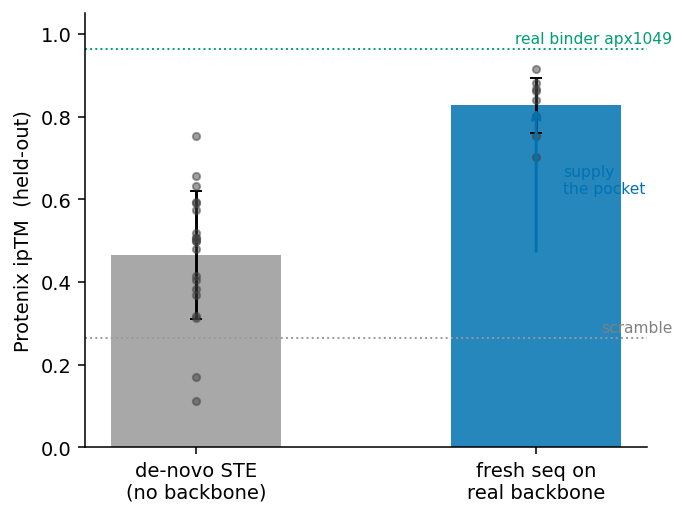
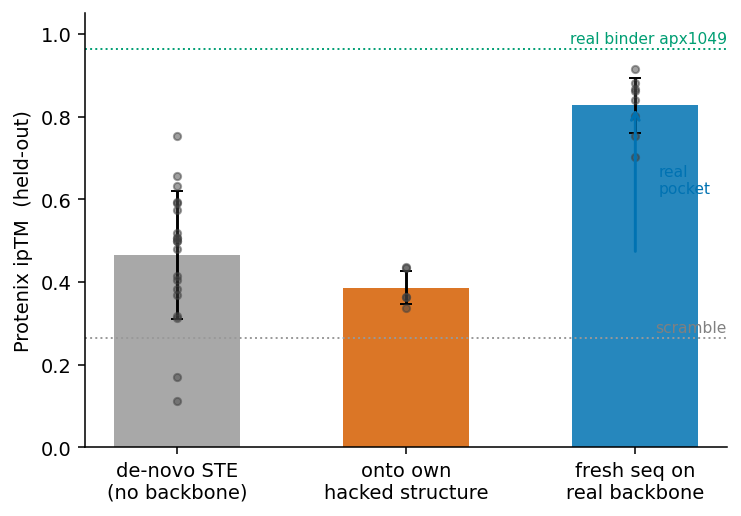
Repo audit: reference all 9 figures in README, DSTE-sweep figure, projector negative in rescue figure

diff --git a/scripts/rescue_figure.py b/scripts/rescue_figure.py
@@ -1,10 +1,11 @@
-"""The bottleneck is the backbone: supply a real pocket and the sequence layer recovers binders.
+"""Structure quality is the bottleneck: what you fit the sequence to decides everything.
 
-De-novo gradient design (no backbone) plateaus at held-out ipTM ~0.45. Freezing the real apx1049
-crystal backbone and designing a fresh, random-init sequence to fit it (LigandMPNN NLL, then an
-independent Protenix refold) jumps to 0.83, near the real binder (0.96) and far above scramble
-(0.27). Same sequence machinery; the only added ingredient is a real pocket backbone. Data:
-budget_scored.json (de-novo ste@25, n=20), rescue_scored.json (n=8).
+De-novo gradient design (no backbone) plateaus at held-out ipTM ~0.45. Fitting a sequence to a
+design's own reward-hacked structure (the projector) makes it worse (0.39). Fitting a fresh
+random-init sequence to the real apx1049 crystal backbone jumps to 0.83, near the real binder
+(0.96). Same sequence machinery throughout; only the target structure changes. Data:
+budget_scored.json (de-novo ste@25, n=20), apix_projector_scored.json (projector, n=5),
+rescue_scored.json (n=8).
 """
 
 import json
@@ -17,7 +18,7 @@ import matplotlib.pyplot as plt
 import numpy as np
 
 DATA = Path(__file__).resolve().parent / "data"
-DENOVO, RESCUE, REAL, SCRAM = "#999999", "#0072B2", "#009E73", "#CCCCCC"
+DENOVO, PROJ, RESCUE, REAL = "#999999", "#D55E00", "#0072B2", "#009E73"
 
 
 def vals(file, method, budget=None):
@@ -28,28 +29,29 @@ def vals(file, method, budget=None):
 
 def main():
     denovo = vals("budget_scored.json", "ste", 25)
+    proj = vals("apix_projector_scored.json", "ste_proj")
     rescue = vals("rescue_scored.json", "rescue_realbb")
     resc = json.loads((DATA / "rescue_scored.json").read_text())
     real = next(r["protenix_iptm"] for r in resc if r["method"] == "anchor_real")
     scram = next(r["protenix_iptm"] for r in resc if r["method"] == "anchor_scramble")
 
-    cats = ["de-novo STE\n(no backbone)", "fresh seq on\nreal backbone"]
-    data = [denovo, rescue]
-    colors = [DENOVO, RESCUE]
+    cats = ["de-novo STE\n(no backbone)", "onto own\nhacked structure", "fresh seq on\nreal backbone"]
+    data = [denovo, proj, rescue]
+    colors = [DENOVO, PROJ, RESCUE]
     x = np.arange(len(cats))
 
-    fig, ax = plt.subplots(figsize=(5.0, 3.8))
-    ax.bar(x, [np.mean(v) for v in data], yerr=[np.std(v) for v in data], width=0.5,
+    fig, ax = plt.subplots(figsize=(5.4, 3.8))
+    ax.bar(x, [np.mean(v) for v in data], yerr=[np.std(v) for v in data], width=0.55,
            color=colors, alpha=0.85, capsize=3)
     for i, v in enumerate(data):
         ax.scatter([x[i]] * len(v), v, color="0.25", s=14, alpha=0.5, zorder=3)
     ax.axhline(real, ls=":", lw=1, color=REAL)
-    ax.text(1.4, real + 0.005, "real binder apx1049", ha="right", va="bottom", fontsize=8, color=REAL)
+    ax.text(2.4, real + 0.005, "real binder apx1049", ha="right", va="bottom", fontsize=8, color=REAL)
     ax.axhline(scram, ls=":", lw=1, color="0.6")
-    ax.text(1.4, scram + 0.005, "scramble", ha="right", va="bottom", fontsize=8, color="0.5")
-    ax.annotate("", xy=(1, np.mean(rescue)), xytext=(1, np.mean(denovo)),
+    ax.text(2.4, scram + 0.005, "scramble", ha="right", va="bottom", fontsize=8, color="0.5")
+    ax.annotate("", xy=(2, np.mean(rescue)), xytext=(2, np.mean(denovo)),
                 arrowprops={"arrowstyle": "->", "color": RESCUE, "lw": 1.5})
-    ax.text(1.08, (np.mean(rescue) + np.mean(denovo)) / 2, "supply\nthe pocket", fontsize=8,
+    ax.text(2.1, (np.mean(rescue) + np.mean(denovo)) / 2, "real\npocket", fontsize=8,
             color=RESCUE, va="center")
 
     ax.set_xticks(x)

diff --git a/scripts/dste_sweep_figure.py b/scripts/dste_sweep_figure.py
@@ -1,0 +1,63 @@
+"""The decoupled straight-through estimator does not move the ceiling at any temperature.
+
+Held-out Protenix ipTM of STE designs on apixaban with the decoupled-STE backward temperature swept
+0.25/0.5/0.75/2.0 (arXiv 2410.13331, n=5 each). Flat at 0.36-0.42 throughout, far below the real
+binder (0.97): the plateau is not a gradient-estimator artifact. Data: lever_dste_scored.json,
+dste_{0.25,0.75,2.0}_scored.json, apix_anchors_scored.json.
+"""
+
+import json
+import statistics as st
+from pathlib import Path
+
+import matplotlib
+
+matplotlib.use("Agg")
+import matplotlib.pyplot as plt
+import numpy as np
+
+DATA = Path(__file__).resolve().parent / "data"
+BAR = "#0072B2"
+
+TEMPS = [("0.25", "dste_0.25_scored.json", "ste_dste0.25"),
+         ("0.5", "lever_dste_scored.json", "ste_dste0.5"),
+         ("0.75", "dste_0.75_scored.json", "ste_dste0.75"),
+         ("2.0", "dste_2.0_scored.json", "ste_dste2")]
+
+
+def vals(file, method):
+    d = json.loads((DATA / file).read_text())
+    return [r["protenix_iptm"] for r in d if r["method"] == method and r.get("protenix_iptm") is not None]
+
+
+def main():
+    anch = json.loads((DATA / "apix_anchors_scored.json").read_text())
+    real = next(r["protenix_iptm"] for r in anch if r["method"] == "anchor_real")
+    base = st.mean(vals("budget_scored.json", "ste"))   # plain STE, includes budget 25
+
+    labels = [t[0] for t in TEMPS]
+    means = [st.mean(vals(f, m)) for _, f, m in TEMPS]
+    sds = [st.pstdev(vals(f, m)) for _, f, m in TEMPS]
+    x = np.arange(len(labels))
+
+    fig, ax = plt.subplots(figsize=(5.0, 3.4))
+    ax.bar(x, means, yerr=sds, width=0.6, color=BAR, alpha=0.85, capsize=3)
+    ax.axhline(real, ls=":", lw=1, color="#009E73")
+    ax.text(len(labels) - 0.5, real + 0.01, "real binder", ha="right", va="bottom", fontsize=8, color="#009E73")
+    ax.axhline(base, ls="--", lw=1, color="0.5")
+    ax.text(0, base + 0.01, "plain STE", ha="left", va="bottom", fontsize=8, color="0.5")
+    ax.set_xticks(x)
+    ax.set_xticklabels(labels)
+    ax.set_xlabel("decoupled-STE backward temperature")
+    ax.set_ylabel("Protenix ipTM  (held-out)")
+    ax.set_ylim(0, 1.05)
+    for s in ("top", "right"):
+        ax.spines[s].set_visible(False)
+    fig.tight_layout()
+    out = Path(__file__).resolve().parents[1] / "figures" / "dste_sweep.png"
+    fig.savefig(out, dpi=140, bbox_inches="tight")
+    print("saved", out)
+
+
+if __name__ == "__main__":
+    main()

diff --git a/README.md b/README.md
@@ -123,6 +123,23 @@ binder at 0.86.
 
 ![levers](figures/levers.png)
 
+The decoupled-STE sweep is flat across temperatures, and the plateau is not apixaban-specific
+(cortisol STE designs vs the real cortisol binder):
+
+![decoupled-STE temperature sweep](figures/dste_sweep.png)
+
+![second target, cortisol](figures/two_target.png)
+
+Two per-lever details: pTMEnergy improves the structure (gpde) but not the binding ceiling, and the
+sequence collapse the composition/repetition terms target is real and measurable; the distogram
+contact loss lifts the mean but does not break the band:
+
+![pTMEnergy: structure improves, binding does not](figures/ptm_energy.png)
+
+![sequence collapse: optimized designs vs real binder](figures/collapse.png)
+
+![distogram contact loss](figures/contact.png)
+
 The projection experiment shows the mechanism, and points to the fix. Projecting a design onto its
 own reward-hacked structure (LigandMPNN `score_soft`, `scripts/project.py`) makes the held-out score
 worse (0.51 -> 0.39): the structure is the problem, so fitting a sequence to it cannot help. But
